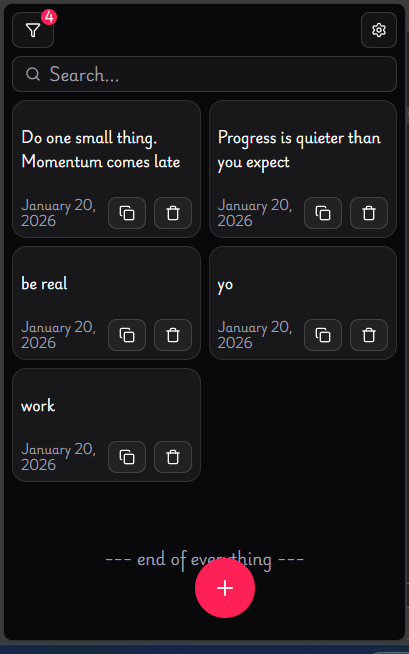
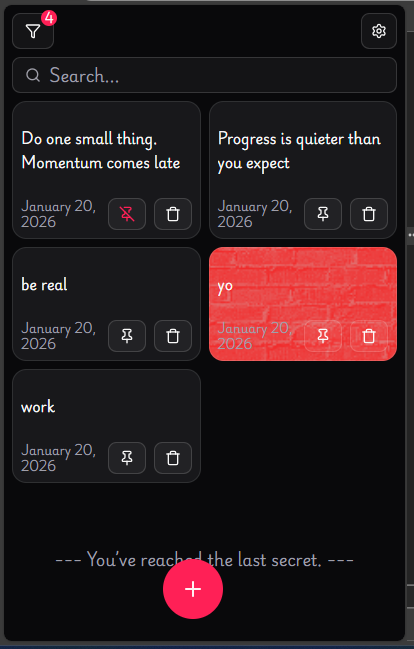
improved SEO

diff --git a/frontend/index.html b/frontend/index.html
@@ -3,53 +3,116 @@
 
 <head>
   <meta charset="UTF-8" />
-  <meta http-equiv="X-UA-Compatible" content="IE=edge" />
-  <meta name="viewport" content="width=device-width, initial-scale=1.0" />
+  <meta http-equiv="X-UA-Compatible"
+        content="IE=edge" />
+  <meta name="viewport"
+        content="width=device-width, initial-scale=1.0" />
 
   <!-- Primary Meta Tags -->
   <title>Notes – A Calm, Beautiful Space for Your Thoughts</title>
-  <meta
-    name="description"
-    content="Notes is a calm, beautiful notes app that turns scattered ideas into a personal library you actually want to revisit."
-  />
-  <meta
-    name="keywords"
-    content="notes app, notes, personal knowledge base, note cards, digital notebook, writing app, journaling app"
-  />
-  <meta name="robots" content="index,follow" />
+  <meta name="description"
+        content="Notes is a calm, beautiful notes app that turns scattered ideas into a personal library you actually want to revisit." />
+  <meta name="keywords"
+        content="notes app, notes, personal knowledge base, note cards, digital notebook, writing app, journaling app" />
+  <meta name="robots"
+        content="index,follow" />
+
+        <!-- Author -->
+  <meta name="author"
+        content="Pritam Debnath"
+        title="Pritam Debnath">
+  <meta http-equiv="Content-Language"
+        content="en">
+        <meta name="author-linkedin"
+        content="https://www.linkedin.com/in/pritam-debnath-762019239/"
+        title="https://www.linkedin.com/in/pritam-debnath-762019239/">
+        <meta name="author-github"
+        content="https://github.com/pridebnath"
+        title="https://github.com/pridebnath">
+
+        <!-- Robots -->
+        <meta name="robots"
+        content="index, follow, max-image-preview:large, max-snippet:-1, max-video-preview:-1" />
+  <meta name="googlebot"
+        content="index, follow" />
+  <meta name="bingbot"
+        content="index, follow" />
+  <link rel="canonical"
+        href="https://pridebnath.github.io/Notes/" />
+
+
+          <!-- Additional Meta Tags -->
+  <meta name="format-detection"
+  content="telephone=no" />
+<meta name="mobile-web-app-capable"
+  content="yes" />
+<meta name="apple-mobile-web-app-capable"
+  content="yes" />
+<meta name="apple-mobile-web-app-status-bar-style"
+  content="black-translucent" />
+
 
   <!-- Favicon -->
-  <link rel="icon" type="image/svg+xml" href="/vite.svg" />
+  <link rel="icon"
+        type="image/svg+xml"
+        href="/vite.svg" />
 
   <!-- Open Graph / Facebook -->
-  <meta property="og:type" content="website" />
-  <meta property="og:title" content="Notes – A Calm, Beautiful Space for Your Thoughts" />
-  <meta
-    property="og:description"
-    content="Capture ideas, thoughts, and snippets in a warm, card-based notes app designed for rereading, not forgetting."
-  />
-  <!--
+
+  
+  <!-- Open Graph (OG) meta tags are widely used to control the appearance of your content when shared on platforms like Facebook, LinkedIn, and Pinterest. -->
+<meta property="og:image"
+        content="https://raw.githubusercontent.com/PriDebnath/notes/refs/heads/main/frontend/public/images/list.page.png">
+  <meta property="og:image:width"
+        content="1200">
+  <meta property="og:image:height"
+        content="630">
+  <meta property="og:image:alt"
+        content="Notes - A Calm, Beautiful Space for Your Thoughts">
+  <meta property="og:url"
+        content="https://pridebnath.github.io/Notes/">
+  <meta property="og:type"
+        content="website">
+  <meta property="og:site_name"
+        content="Notes">
+  <meta property="og:locale"
+        content="en_US">
+
+  <meta property="og:type"
+        content="website" />
+  <meta property="og:title"
+        content="Notes – A Calm, Beautiful Space for Your Thoughts" />
+  <meta property="og:description"
+        content="Capture ideas, thoughts, and snippets in a warm, card-based notes app designed for rereading, not forgetting." />
+  
+  
+        <!--
     Replace this URL with your real production URL (GitHub Pages or custom domain)
     Example: https://your-username.github.io/Quotes-Keeper-3/
   -->
-  <meta property="og:url" content="/" />
+  <meta property="og:url"
+        content="/" />
   <!--
     If you add a social preview image, update this path.
     Example: /social-card.png
   -->
-  <meta property="og:image" content="/vite.svg" />
+  <meta property="og:image"
+        content="/vite.svg" />
 
   <!-- Twitter -->
-  <meta name="twitter:card" content="summary_large_image" />
-  <meta name="twitter:title" content="Notes – A Calm, Beautiful Space for Your Thoughts" />
-  <meta
-    name="twitter:description"
-    content="A distraction-light notes app that makes your saved ideas feel like a curated collection instead of a cluttered list."
-  />
-  <meta name="twitter:image" content="/vite.svg" />
+  <meta name="twitter:card"
+        content="summary_large_image" />
+  <meta name="twitter:title"
+        content="Notes – A Calm, Beautiful Space for Your Thoughts" />
+  <meta name="twitter:description"
+        content="A distraction-light notes app that makes your saved ideas feel like a curated collection instead of a cluttered list." />
+  <meta name="twitter:image"
+        content="/vite.svg" />
 
+        
   <!-- Theme Color -->
-  <meta name="theme-color" content="#0f172a" />
+  <meta name="theme-color"
+        content="#0f172a" />
 
   <!-- Fonts -->
   <link rel="preconnect"
@@ -60,6 +123,25 @@
   <link href="https://fonts.googleapis.com/css2?family=Gabriela&family=Merienda:wght@300..900&family=Playwrite+DE+Grund:wght@100..400&display=swap"
         rel="stylesheet" />
 
+  <!-- Structured Data - WebSite Schema -->
+  <script type="application/ld+json">
+    {
+      "@context": "https://schema.org",
+      "@type": "WebSite",
+      "name": "Notes - A Calm, Beautiful Space for Your Thoughts",
+      "url": "https://pridebnath.github.io/Notes/",
+      "description": "Notes is a calm, beautiful notes app that turns scattered ideas into a personal library you actually want to revisit.",
+      "author": {
+        "@type": "Person",
+        "name": "Pritam Debnath"
+      },
+      "potentialAction": {
+        "@type": "SearchAction",
+        "target": "https://pridebnath.github.io/Notes/?q={search_term_string}",
+        "query-input": "required name=search_term_string"
+      }
+    }
+</script>
 </head>
 
 <body class="font-playwrite-de-grund">

diff --git a/frontend/src/feature/quote/card/quote.card.tsx b/frontend/src/feature/quote/card/quote.card.tsx
@@ -16,7 +16,7 @@ interface Props {
     quote: QuoteDetails;
     onEdit: (quote: Quote) => void
     onDelete: (quote: Quote) => void
-  onTogglePin: (quote: QuoteDetails) => void
+    onTogglePin: (quote: QuoteDetails) => void
 }
 
 const QuoteCard = (props: Props) => {
@@ -29,7 +29,7 @@ const QuoteCard = (props: Props) => {
     const noteRef = useRef<HTMLDivElement>(null)
 
     const cardStyle = buildStyle(quote.texture!, quote.pri_set!)
-  
+
     const exportAsImage = async () => {
         if (!noteRef.current) return
         setDownloading(true)
@@ -83,7 +83,7 @@ const QuoteCard = (props: Props) => {
                     "flex flex-col justify-between items-start gap-2",
                     "",
                 )}>
-                    <div className="flex justify-end w-full">
+                {/* <div className="flex justify-end w-full">
                     <Button
                             className={cn("hover:text-primary-600", quote.pinned && "text-primary-600")}
                             variant={"outline"}
@@ -96,7 +96,7 @@ const QuoteCard = (props: Props) => {
                         >
                             {quote.pinned ? <PinOff /> : <Pin />}
                         </Button>
-                    </div>
+                    </div> */}
                 <div className={cn(
                     "tiptap",
                     "prose-sm",
@@ -124,8 +124,8 @@ const QuoteCard = (props: Props) => {
                         }</p>
                     )}
                     <div className="flex items-center gap-2 ">
-         
-                        <Button
+
+                        {/* <Button
                             className="hover:text-green-600 "
                             variant={"outline"}
                             onClick={(e) => {
@@ -137,8 +137,20 @@ const QuoteCard = (props: Props) => {
                             size={"sm"}
                         >
                             {copying ? <Check className="text-green-500" /> : <Copy />}
-                        </Button>
+                        </Button> */}
 
+                        <Button
+                            className={cn("hover:text-primary", quote.pinned && "text-primary")}
+                            variant={"outline"}
+                            onClick={(e) => {
+                                e.preventDefault()
+                                onTogglePin(quote)
+                            }}
+                            aria-label={quote.pinned ? "Unpin note" : "Pin note"}
+                            size={"sm"}
+                        >
+                            {quote.pinned ? <PinOff /> : <Pin />}
+                        </Button>
 
                         {/*
                         <Button

diff --git a/frontend/src/page/quote/quote-list.page.tsx b/frontend/src/page/quote/quote-list.page.tsx
@@ -147,7 +147,7 @@ export function QuoteListPage() {
         <Link to="/new">
           <Button
             size="icon-lg"
-            className="fixed bottom-8 rounded-full aspect-square scale-150"
+            className="fixed bottom-8  -translate-x-8 rounded-full aspect-square scale-150"
           >
             <PlusIcon />
           </Button>
